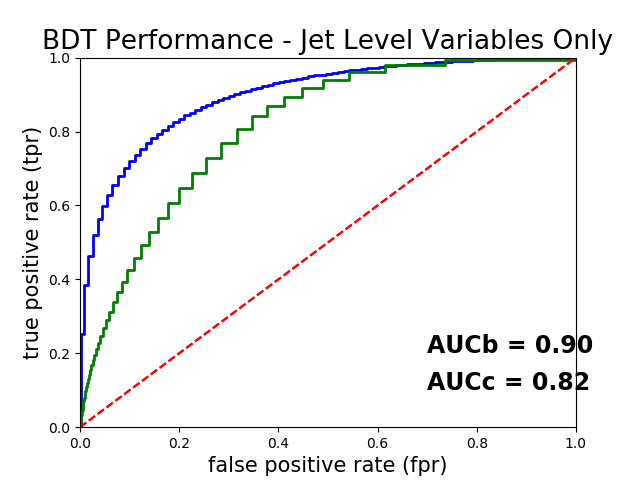
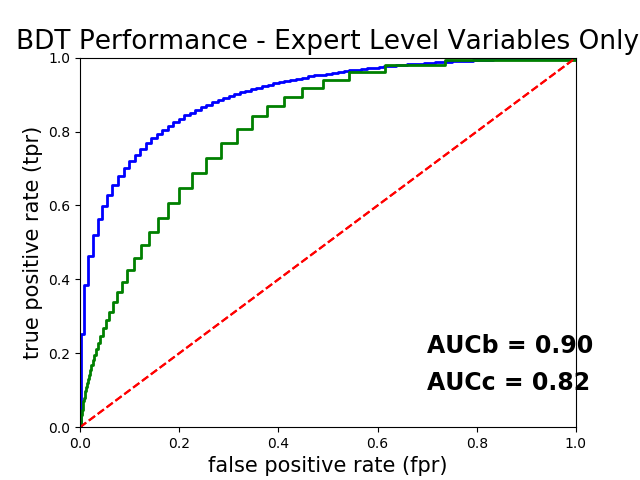
Expert not Jet

Changed region(s): [[0.0312, 0.0625, 1.0, 0.125]]

diff --git a/ML_ROC_plot_Rev2_bdt.py b/ML_ROC_plot_Rev2_bdt.py
@@ -24,5 +24,5 @@ plt.xlim([0,1])
 plt.ylim([0,1])
 plt.xlabel('false positive rate (fpr)', fontsize=15)
 plt.ylabel('true positive rate (tpr)', fontsize=15)
-plt.title('BDT Performance - Jet Level Variables Only', fontsize=19)
+plt.title('BDT Performance - Expert Level Variables Only', fontsize=19)
 plt.savefig('test_ML_ROC_bdt.png')
